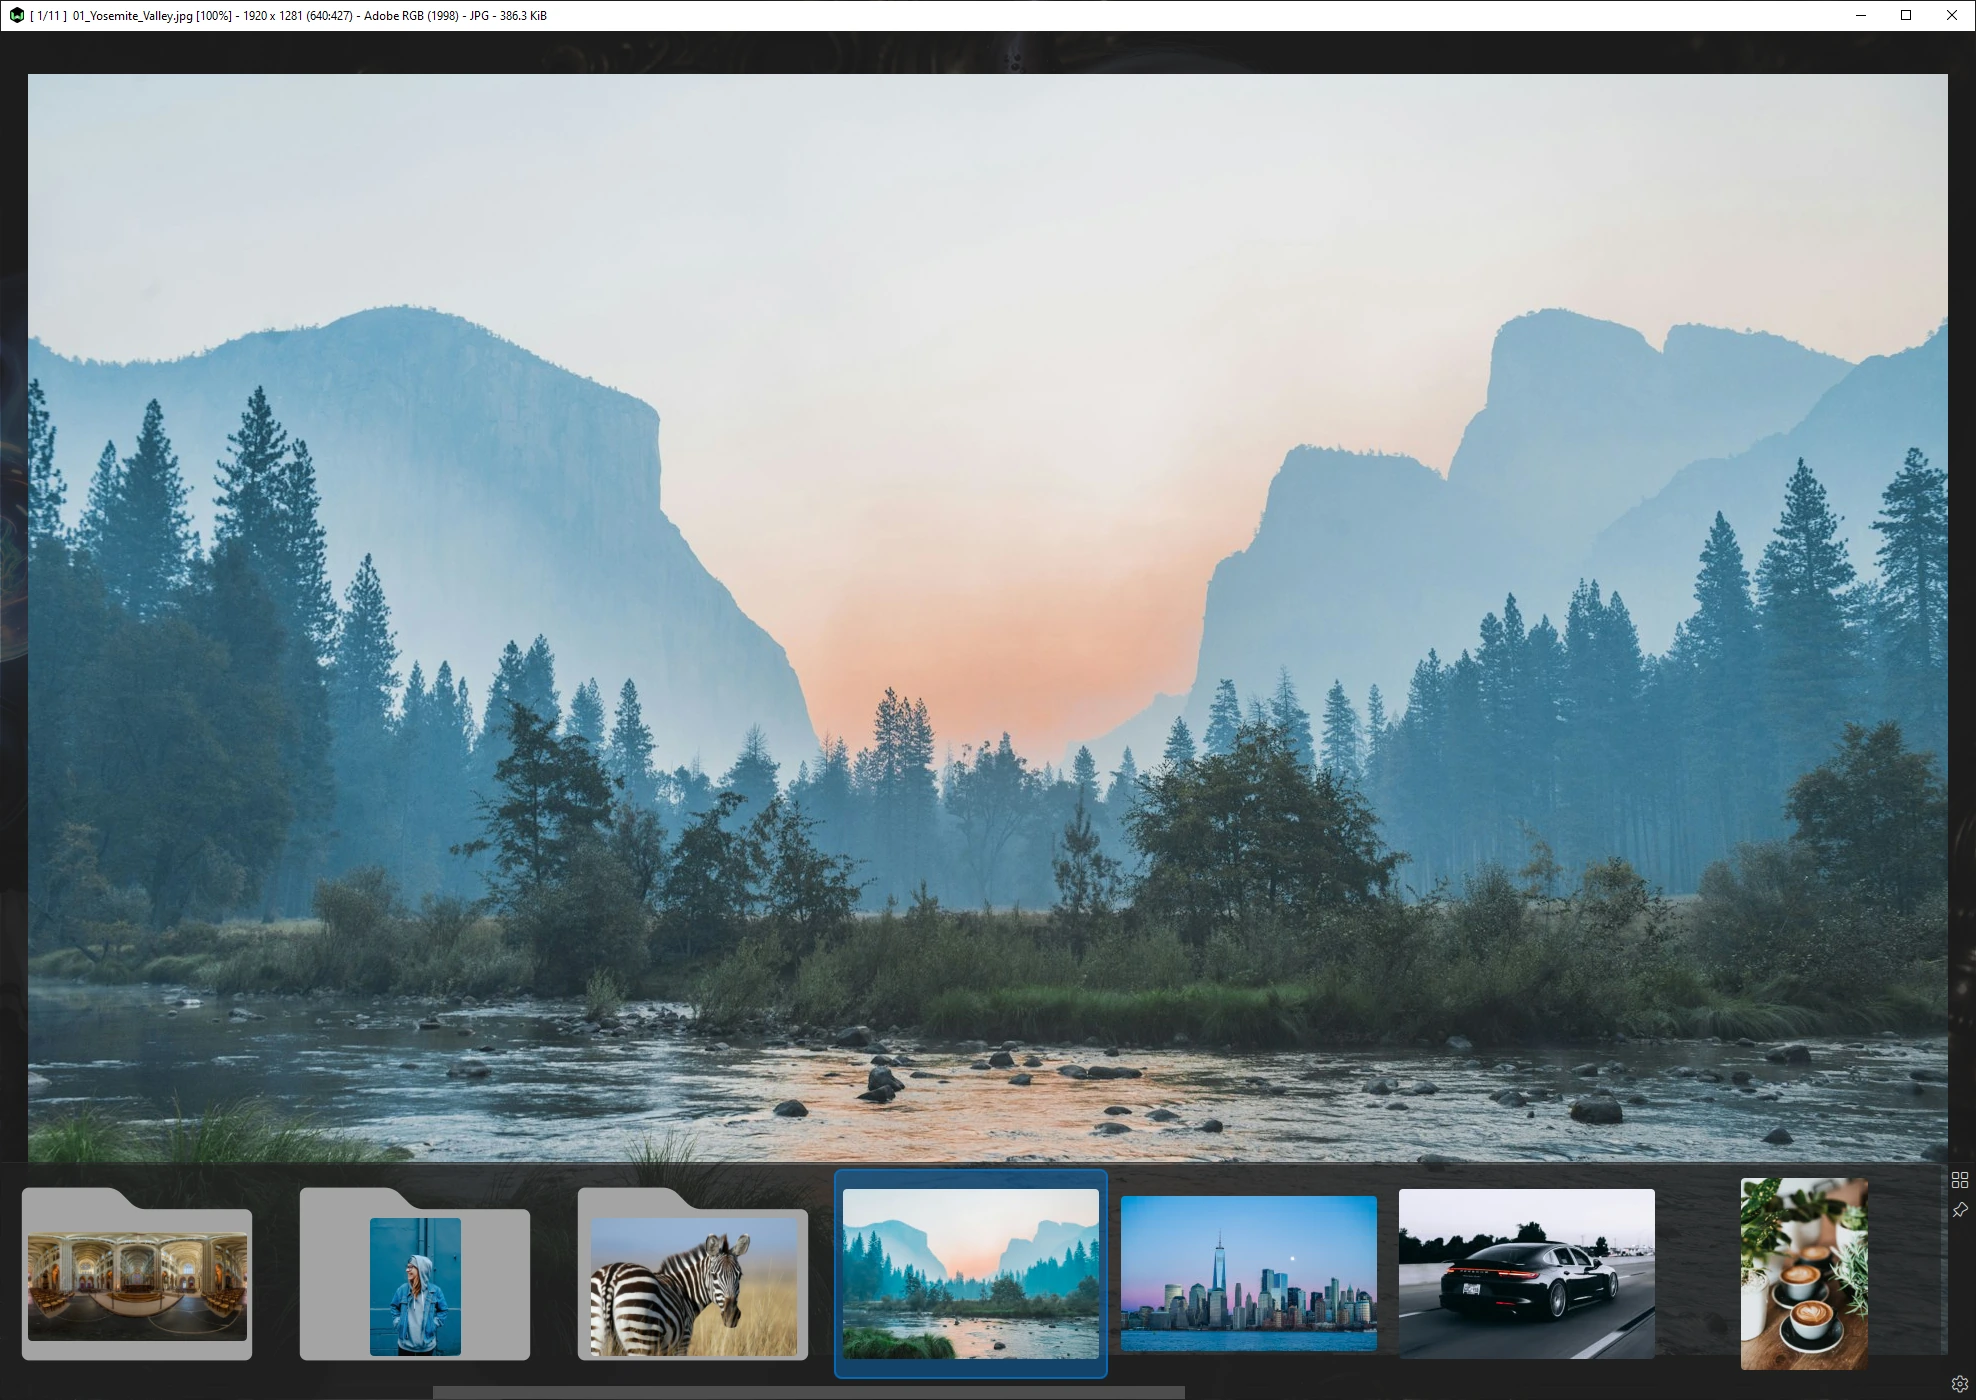
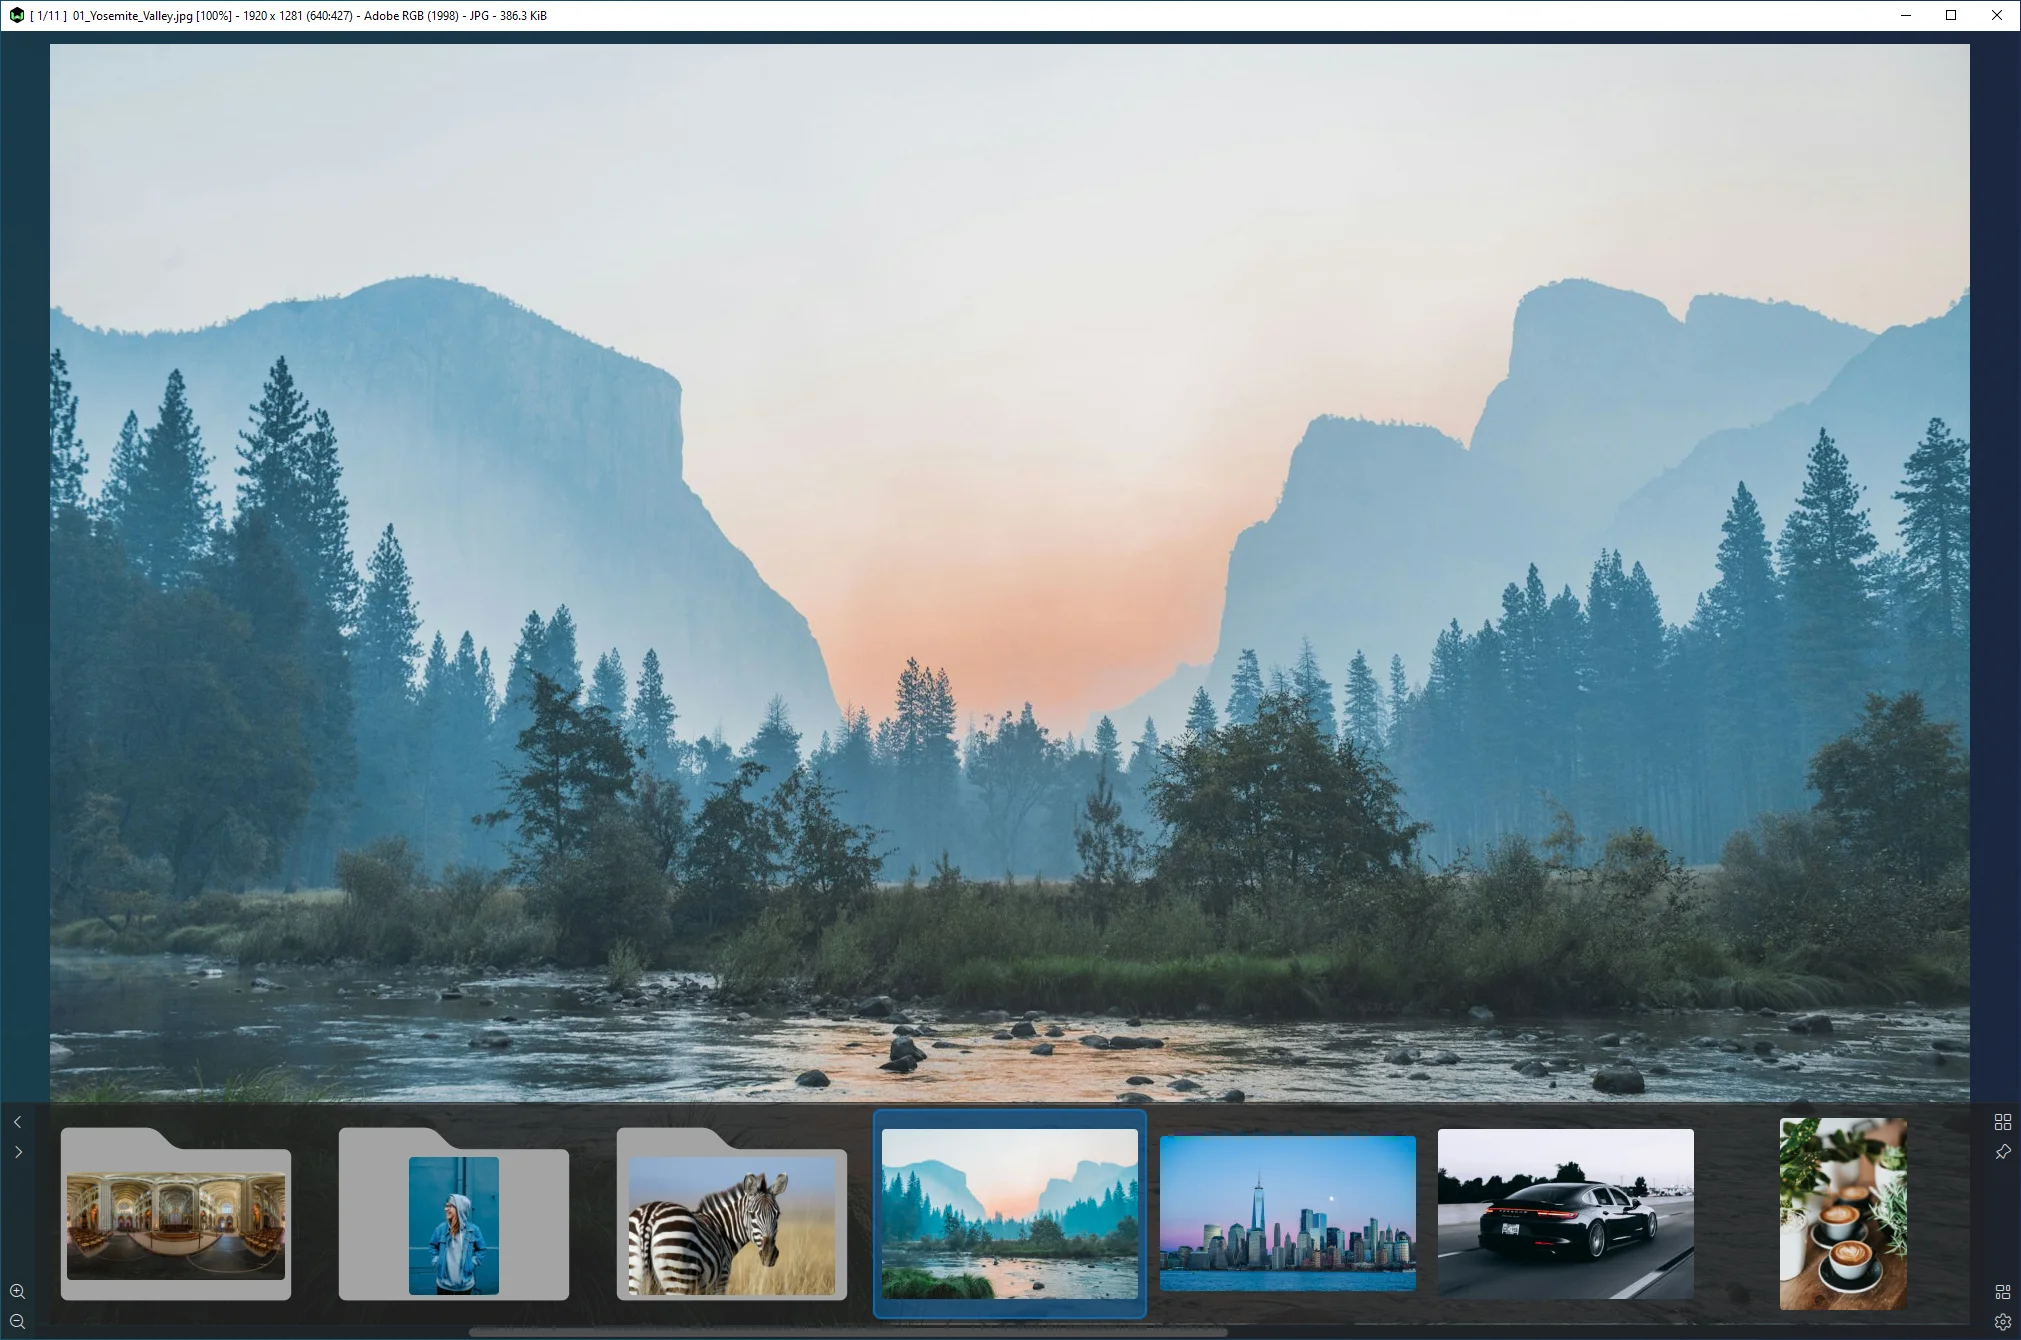
upd readme + new screenshots

diff --git a/README.md b/README.md
@@ -38,29 +38,29 @@
 
 * **Real-Time AI Upscaling (Upscayl)**: Real-time AI image upscaling powered by **[upscayl-ncnn](https://github.com/upscayl/upscayl-ncnn) (NCNN/Vulkan & RealESRGAN)**. Upscales only the visible viewport crop to conserve VRAM, using background threads to keep the UI fully responsive. Includes an optional preloading mechanism to warm up Vulkan shader pipelines and eliminate startup latency.
 
-* **Real-Time Color Adjustments**: Instant, lag-free adjustments of Brightness, Contrast, Saturation, Hue, Exposure, Temperature, and Tint calculated on the graphics card via shaders. Features an interactive overlay with a "Compare" button (press and hold to view the original), Apply and Reset buttons, and double-click slider resets.
+* **Real-Time Color Adjustments**: Instant, lag-free adjustments of Smart Enhance (auto white balance and tonal recovery), Exposure, Contrast, Brightness, Temperature, Tint, Hue, Vibrance, and Saturation calculated on the graphics card via shaders. Features an interactive overlay with a "Compare" button (press and hold to view the original), Apply, Reset, and Copy (to paste into the Batch Converter) buttons, plus double-click slider resets.
 
 * **360-Degree Spherical Panorama View**: Interactive drag-and-look viewer for spherical panoramic photos, with the same real-time color adjustments as the regular view.
 
-* **Native Support for Modern Formats**: Out-of-the-box support for AVIF, HEIF/HEIC, JPEG XL (JXL), JPEG XR, JPEG 2000 (.jp2, .j2k, .jpf, .jpx, .jpc), HTJ2K (.jph), PSD, XCF, DDS, RAW, KRA, ORA, QOI, DjVu, and images inside ZIP/CBZ, 7z/CB7, and RAR/CBR archives.
+* **Native Support for Modern Formats**: Out-of-the-box support for AVIF/AVIFS, HEIF/HEIC, JPEG XL (JXL), JPEG XR, JPEG 2000 (.jp2, .j2k, .jpf, .jpx, .jpc), HTJ2K (.jph), PSD, XCF, DDS, RAW, KRA, ORA, QOI, DjVu, Blender (.blend) previews, font previews (.ttf, .otf, .ttc), and images inside ZIP/CBZ, 7z/CB7, and RAR/CBR archives.
 
 * **Modern CPU Optimization**: Compiled with AVX2 support for high-speed image processing on modern processors. A separate SSE2 build is available for older PCs (see [Installation](#installation)).
 
-* **Batch Image Converter**: Multi-threaded background queue to convert, resize, rename, adjust colors, and AI-upscale multiple images.
+* **Batch Image Converter**: Multi-threaded background queue to convert, resize (by percentage, resolution, or megapixels), rotate/flip, rename, adjust colors, and AI-upscale multiple images.
 
 * **Windows Explorer Thumbnail Extension**: 64-bit shell extension (`wynpixshellex.dll`, `IThumbnailProvider`) providing Explorer thumbnails for formats Windows does not support natively (AVIF, HEIC, JPEG XL, PSD, camera RAW, OpenEXR, Radiance HDR, DDS, QOI, KRA, comic archives, etc.).
 
-* **Image Info Panel**: Displays EXIF/metadata for the current image. For PNG files generated by **ComfyUI**, automatically parses embedded KSampler workflow data and presents generation parameters (model, sampler, steps, CFG scale, seed, positive/negative prompts) in a structured view.
+* **Image Info Panel**: Displays EXIF/metadata for the current image (with `Ctrl+C` copy support for selected text). For PNG files generated by **ComfyUI**, automatically parses embedded KSampler workflow data and presents generation parameters (model, CLIP, VAE, sampler, scheduler, steps, CFG scale, seed, denoise, LoRAs, and positive prompt) in a structured view.
 
 * **Display Color Management**: Dynamic source-to-target color mapping that queries the system's primary monitor ICC profile. Supports standard preset spaces (sRGB, Adobe RGB, Display P3, etc.) or custom ICC/ICM files.
 
 * **HDR Tone-Mapping**: Built-in tone-mapping pipeline for high-dynamic-range images, including 10-bit/12-bit AVIF HDR with Rec.2100 PQ or HLG transfer, OpenEXR, and Radiance HDR. Supports ITU-R BT.2408, Reinhard-Jodie, ACES Filmic, and Hable (Uncharted 2) operators with configurable target white levels.
 
-* **Fully Configurable**: Highly customizable keyboard shortcuts, theme modes (System Auto, Dark, Light), custom accent colors, and background preferences.
+* **Fully Configurable**: Highly customizable keyboard shortcuts, theme modes (System Auto, Dark, Light), custom accent colors, window/panel opacity, and background preferences.
 
 * **Basic Image Editing**: Quick crop, rotate, and resize operations.
 
-* **Folder View Mode**: Seamless grid browsing with support for left mouse button rectangular selection and options to open only selected files (including folders). Features a format-filter dropdown to narrow the file list to a specific image format group (e.g. HEIF/HEIC, RAW, PNG).
+* **Folder View Mode**: Seamless browsing in classic **Grid** or aspect-preserving **Masonry** layout, with left mouse button rectangular selection, options to open only selected files (including folders), `Ctrl+F` name filtering, and a format-filter dropdown to narrow the file list to a specific image format group (e.g. HEIF/HEIC, RAW, PNG). Adaptive **Auto** thumbnail caching matches tile resolution 1:1 up to 2048 px.
 
 * **Quick Copy / Move**: Easily categorize or organize your files into configurable folders.
 
@@ -114,7 +114,12 @@
 | Reload image                                 | F5                                          |
 | Next directory                               | Shift+Right                                 |
 | Previous directory                           | Shift+Left                                  |
-| Folder view                                  | Backspace / Esc / MiddleClick               |
+| Return to folder view                         | Backspace / Esc / MiddleClick               |
+| Folder view: Open selected                   | Enter                                       |
+| Folder view: Select all                      | Ctrl+A                                      |
+| Folder view: Name filter                     | Ctrl+F                                      |
+| Folder view: Parent folder                   | Backspace                                   |
+| Folder view: History Back / Forward          | Mouse back / forward button                 |
 | Print / Export PDF                           | Ctrl+P                                      |
 | Toggle scaling filter (nearest / configured) | N                                           |
 | Cycle scaling filter                         | Shift+N                                     |
@@ -138,9 +143,13 @@ Note: you can configure every shortcut by going to **Settings > Controls**.
 
 The idea is to have an uncluttered, simple and easy to use UI. You can see UI elements only when you need them.
 
-There is a pull-down panel with thumbnails, as well as folder view. You can also bring up a context menu via right click.
+There is a pull-down panel with thumbnails (supporting both uniform strips and **Masonry** layout, `+`/`-` preview sizing up to 512 px, and page scroll buttons), as well as **Folder View** with classic **Grid** and **Masonry** modes. You can also bring up a context menu via right click.
 
 ![Wynpix Folder View with Folder Thumbnails](screenshots/02_folder_view.webp)
+
+![Wynpix Folder View in Masonry Mode](screenshots/08_masonry_view.webp)
+
+![Wynpix Thumbnail Panel](screenshots/09_thumbnail_panel.webp)
 
 ## Using quick copy / quick move panels
 
@@ -185,7 +194,7 @@ Wynpix offers modern options to personalize your image viewing experience:
 
 ## Scaling and Sharpening Filters
 
-The viewer renders every image on the GPU through Qt Quick (Direct3D 11 by default; Direct3D 12 or Vulkan can be selected with the `quickGraphicsApi` key in the configuration file). All viewer filters run on the GPU; choose one under **Settings > View > Scaling quality**, toggle between Nearest and the configured filter with **N**, or cycle through them with **Shift+N**:
+The viewer renders every image on the GPU through Qt Quick (Direct3D 11 by default; Direct3D 12 or Vulkan can be selected with the `quickGraphicsApi` key in the configuration file). All viewer filters run on the GPU; choose one under **Settings > Viewer > Scaling quality**, toggle between Nearest and the configured filter with **N**, or cycle through them with **Shift+N**:
 
 * **Magic Kernel Sharp 2021 (Default)**: The default high-quality scaling and sharpening filter. While the view moves, the image is shown with trilinear filtering; once it rests, the MKS2021 resampling kernel draws the final frame. When zoomed in, the kernel also runs while the view moves.
 
@@ -226,9 +235,9 @@ Wynpix integrates **[upscayl-ncnn](https://github.com/upscayl/upscayl-ncnn)** (N
 
 Wynpix provides instant, lag-free adjustments calculated directly on the graphics card using GPU shaders:
 
-* **Interactive HUD Overlay**: Adjust Brightness, Contrast, Saturation, Hue, Exposure, Temperature, and Tint on the fly.
+* **Interactive HUD Overlay**: Adjust **Smart Enhance** (auto white balance, shadow/highlight recovery, and midtone clarity), **Exposure**, **Contrast**, **Brightness**, **Temperature**, **Tint**, **Hue**, **Vibrance**, and **Saturation** on the fly.
 * **Instant A/B Comparison**: Press and hold the **Compare** button to instantly see the original unadjusted image.
-* **Fast Reset & Apply**: Apply adjustments directly to your viewing session or double-click any slider to reset it to default.
+* **Fast Reset, Apply & Copy**: Apply adjustments directly to your viewing session, double-click any slider to reset it to default (or use the mouse wheel for fine steps), or click **Copy** to paste your adjustments directly into the Batch Converter.
 
 ![Real-Time Shader Color Adjustments](screenshots/03_color_adjustments.webp)
 
@@ -252,20 +261,20 @@ Multi-threaded background queue processor:
 
 * **Formats**: Converts to **JPEG**, **PNG** (with 0-9 compression level slider; uses **libdeflate** for significantly faster export when `deflate.dll` is present), **WebP**, **JPEG-XL (JXL)**, **AVIF**, **BMP**, **TIFF**, and **QOI** with custom quality sliders.
 
-* **Resizing**: Scaling by percentage or custom resolution, presets, aspect ratio lock, and quick enforcers ("Fit Desktop" / "Fill Desktop").
+* **Resizing**: Scaling by percentage, by absolute resolution (with `Common sizes` presets, aspect ratio lock, and `Auto` / `Width` / `Height` fit modes), or by target **Megapixels** (decimal or binary `1M = 1024x1024`).
 
-* **Scaling Filters**: Supports CPU filters (Nearest, Bilinear, Smart sharpen, and MKS2021, the default) and **Vulkan-accelerated AI Upscaling (Upscayl)** using customizable models such as `4xLSDIRCompactC3`.
+* **Scaling Filters**: Supports CPU filters (Nearest, Bilinear, Smart sharpen, and MKS2021, the default) and **Vulkan-accelerated AI Upscaling (Upscayl)** using customizable models such as `4xLSDIRCompactC3` (when scaling above 100%).
 
-* **Color Correction**: Applies Exposure, Contrast, Brightness, Saturation, Hue, Temperature, and Tint adjustments. Includes a one-click reset button to clear all sliders.
+* **Color Correction**: Applies Smart Enhance, Exposure, Contrast, Brightness, Temperature, Tint, Hue, Vibrance, and Saturation adjustments. Includes a **Paste** button to import adjustments copied from the viewer overlay and a one-click reset button to clear all sliders.
 
 ![Batch Image Converter](screenshots/06_batch_converter.webp)
 
 ## Image Info & ComfyUI Workflow Inspector
 
-Press **`I`** to open the comprehensive image information panel:
+Press **`I`** to open the comprehensive image information panel (select any value and press **`Ctrl+C`** to copy it):
 
 * **Metadata & EXIF**: Inspect image dimensions, format, bit depth, color profile, and full camera EXIF attributes (lens, focal length, ISO, exposure time, aperture).
-* **ComfyUI Generation Data**: For PNG images generated with **ComfyUI**, Wynpix automatically detects embedded KSampler workflow metadata and displays model checkpoints, CLIP/VAE models, samplers, schedulers, seeds, steps, CFG scale, denoise settings, and full positive/negative prompt text in a clean structured view.
+* **ComfyUI Generation Data**: For PNG images generated with **ComfyUI**, Wynpix automatically detects embedded KSampler workflow metadata and displays model checkpoints, CLIP/VAE models, samplers, schedulers, seeds, steps, CFG scale, denoise settings, LoRAs (including Power Lora Loader chains), and prompt text in a clean structured view.
 
 ![Image Info and ComfyUI Workflow Inspector](screenshots/07_image_info.webp)
 
@@ -273,7 +282,7 @@ Press **`I`** to open the comprehensive image information panel:
 
 Color space translation between source image and active display:
 
-* **Activation**: Toggle via **Settings > View > Color Management**.
+* **Activation**: Toggle via **Settings > Viewer > Color Management**.
 
 * **Display Profiles**:
 
@@ -287,7 +296,7 @@ Color space translation between source image and active display:
 
 Advanced tone-mapping pipeline to accurately view High Dynamic Range (HDR) content on SDR displays:
 
-* **Activation**: Toggle in **Settings > View > HDR Tone-Mapping** or instantly via hotkey (**`Alt + H`**).
+* **Activation**: Toggle in **Settings > Viewer > HDR Tone-Mapping** or instantly via hotkey (**`Alt + H`**).
 
 * **Supported Formats & Profiles**: Detects and decodes HDR metadata across formats, including **AVIF HDR** (10-bit / 12-bit Rec.2100 PQ / HDR10, BT.2100 HLG, Display P3 PQ/HLG, MaxCLL / MaxPALL), **OpenEXR (EXR)**, and **Radiance HDR (.hdr)**.
 
@@ -320,9 +329,10 @@ Wynpix includes a 64-bit Windows Shell extension (`wynpixshellex.dll`, implement
 
 Wynpix natively supports standard formats as well as modern and professional image files out of the box without requiring external plugin installations:
 
-* **Modern formats**: JPEG XL (JXL), AVIF, HEIF / HEIC, JPEG XR (JXR / HDP), JPEG 2000 (.jp2, .j2k, .jpf, .jpx, .jpc), HTJ2K (.jph).
+* **Modern formats**: JPEG XL (JXL), AVIF / AVIFS, HEIF / HEIC, JPEG XR (JXR / HDP), JPEG 2000 (.jp2, .j2k, .jpf, .jpx, .jpc), HTJ2K (.jph).
 * **Game Textures & Formats**: DDS (DirectDraw Surface), TGA (Targa), QOI (Quite OK Image Format).
-* **Digital Art & Projects**: PSD (Photoshop), XCF (GIMP), AI (Adobe Illustrator), PDF, KRA (Krita), ORA (OpenRaster).
+* **Digital Art & Projects**: PSD (Photoshop), XCF (GIMP), AI (Adobe Illustrator), PDF, KRA (Krita), ORA (OpenRaster), Blender (`.blend` embedded previews).
+* **Fonts**: TrueType / OpenType font glyph previews (`.ttf`, `.otf`, `.ttc`).
 * **Documents & Archives**: DjVu, and images inside ZIP/CBZ, 7z/CB7, and RAR/CBR archives.
 * **Legacy & Niche formats**: PCX, IFF/ILBM, SGI RGB, Sun Raster, PIC, PXR, SCT, PFM, farbfeld, PSX TIM, and animated ANI cursors.
 * **Professional & HDR**: OpenEXR (EXR), Radiance HDR (HDR).
